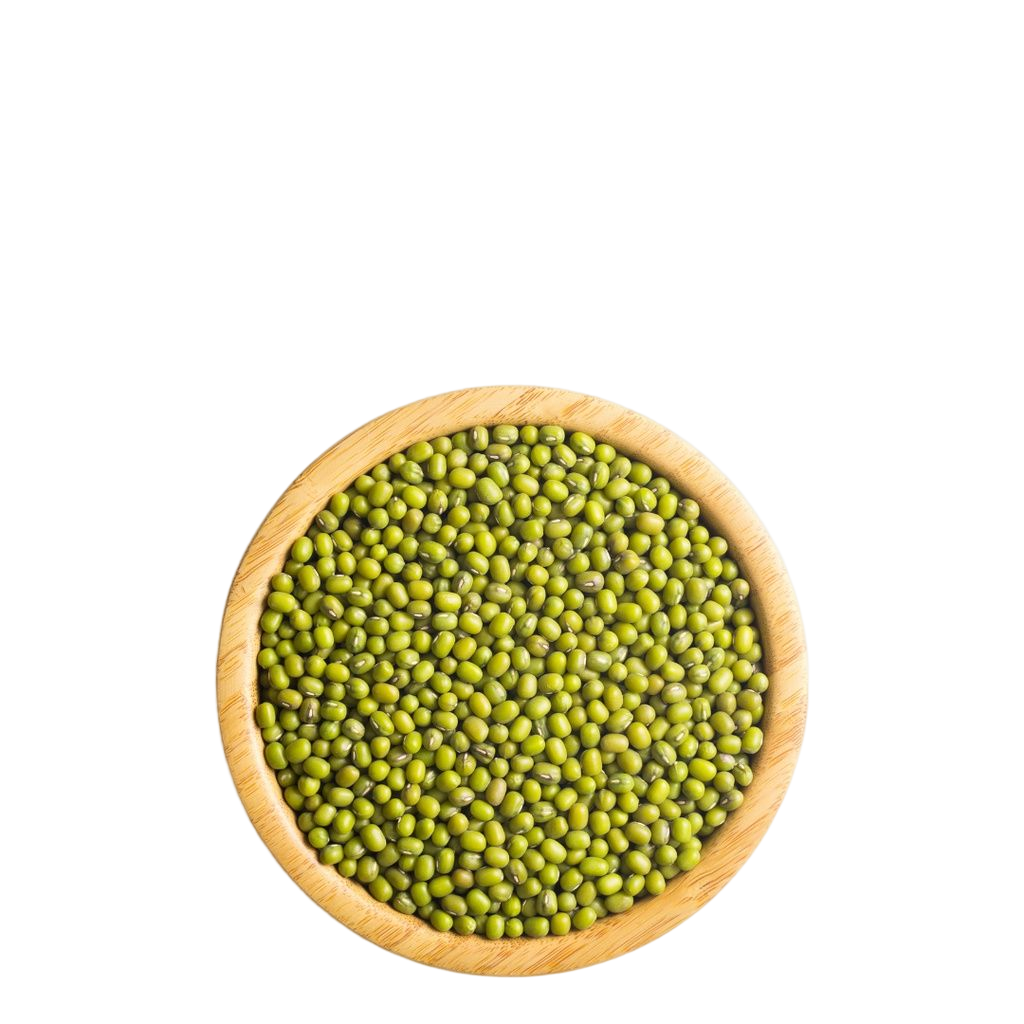
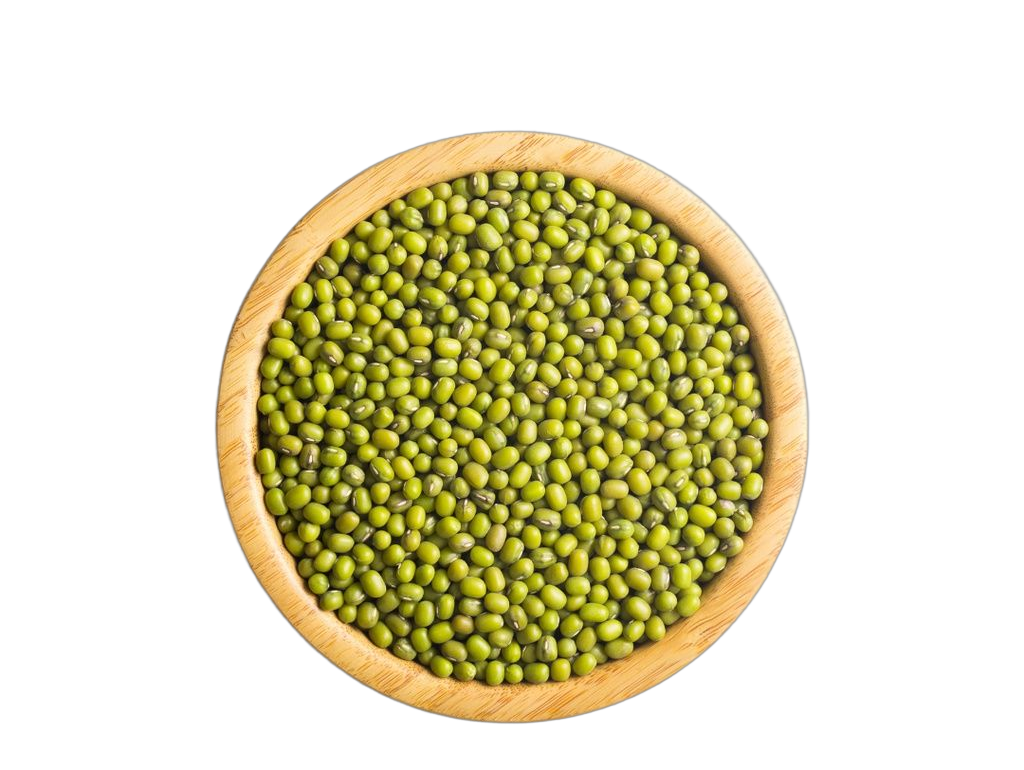
修正圖片大小和飲食量的RWD

diff --git a/css/dietary recommendations.css b/css/dietary recommendations.css
@@ -65,12 +65,11 @@ body{
 }
 .target-inside{
   border: 2px solid gray;
-  margin:10px;
+  margin: 5px;
   padding:10px;
   border-radius: 5px;
   display: flex;
   float: left;
-  
 }
 
 #target1,#target10,#target11,#target12,#target13,#target14{
@@ -83,23 +82,22 @@ body{
   display: inline-block;
   flex-direction: row;
   margin-bottom: 20px;
-  height: 45vh;
+  height: auto;
 }
 #target4,#target5{
-  width: 20vw;
+  min-width: 20vw;
   height: 18vw; 
   display: inline-block;
 }
 #target6,#target7{
-  display: flex;
   display: inline-block;
-  width: 8vw;
+  min-width: 9vw;
   height: 7.5vw;
   border-radius: 50%;
 }
 #target8,#target9{
   display: inline-block;
-  width: 33vw;
+  min-width: 23vw;
   height: 7.8vw;
 }
 .groupone{
@@ -121,6 +119,7 @@ body{
 .column{
   display: flex;
   flex-direction: column;
+  min-width: 5vh;
 }
 .group{
   display: flex;
@@ -307,4 +306,28 @@ h1{
 */
 input#menu {
   display: none;
+}
+/*1440還要再修*/
+@media screen and  (min-width: 900px) {
+  #target4,#target5{
+    min-width: 23vw;
+    height: 18vw; 
+    display: inline-block;
+  }
+  #target6,#target7{
+    display: inline-block;
+    min-width: 11vw;
+    height: 7.5vw;
+    border-radius: 50%;
+  }
+  #target8,#target9{
+    display: inline-block;
+    min-width: 25vw;
+    height: 7.8vw;
+  }
+  .column{
+    display: flex;
+    flex-direction: column;
+    min-width: 25vh;
+  }
 }

diff --git a/css/balance diet.css b/css/balance diet.css
@@ -96,9 +96,16 @@ body{
   float: left;
   border-radius: 5px;
 }
-#box13,#box14,#box15,#box16{
+#box13,#box14,#box15,#box16,#box8,#box17{
   width: 7vw;
   height: 5.4vw;
+  padding: 5px;
+  float: left;
+  border-radius: 5px;
+}
+#box19{
+  width:8vw;
+  height: 6vw;
   padding: 5px;
   float: left;
   border-radius: 5px;
